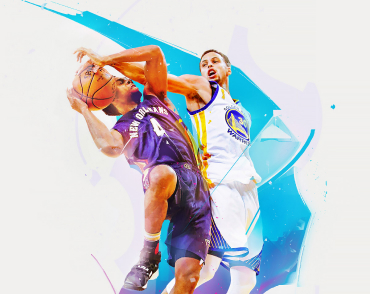
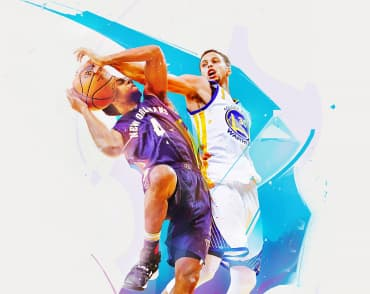
Оптимизация картинок

diff --git a/index.html b/index.html
@@ -28,8 +28,10 @@
             </nav>
 
             <ul class="contacts list">
-                <li class="item"><a href="mailto:info@devstudio.com" class="link">info&commat;devstudio.com</a></li>
-                <li class="item"><a href="tel:+380961111111" class="link">+38 096 111 11 11</a></li>
+                <li class="item">
+                    <a href="mailto:info@devstudio.com" class="link">info&commat;devstudio.com</a></li>
+                <li class="item">
+                    <a href="tel:+380961111111" class="link">+38 096 111 11 11</a></li>
             </ul>
         </div>
     </header>
@@ -180,15 +182,28 @@
     <!-- Footer -->
     <footer id="contacts-section" class="footer">
         <div class="container">
-            <a href="./index.html" class="logo link"><span>Web</span>Studio</a>
+            <div class="logo-address">
+                <a href="./index.html" class="logo link"><span>Web</span>Studio</a>
 
-            <address class="address">
-                <span class="map">г. Киев, пр-т Леси Украинки, 26</span>
+                <address class="address">
+                    <span class="map">г. Киев, пр-т Леси Украинки, 26</span>
+                    <ul class="list">
+                        <li class="item"><a href="mailto:info@example.com" class="link">info&commat;example.com</a></li>
+                        <li class="item"><a href="tel:+380991111111" class="link">+38 099 111 11 11</a></li>
+                    </ul>
+                </address>
+            </div>
+
+            <div class="social">
+                <b class="text">Присоединяйтесь</b>
+
                 <ul class="list">
-                    <li class="item"><a href="mailto:info@example.com" class="link">info&commat;example.com</a></li>
-                    <li class="item"><a href="tel:+380991111111" class="link">+38 099 111 11 11</a></li>
+                    <li></li>
+                    <li></li>
+                    <li></li>
+                    <li></li>
                 </ul>
-            </address>
+            </div>
         </div>
     </footer>
 </body>

diff --git a/css/styles.css b/css/styles.css
@@ -127,6 +127,15 @@ body {
   margin-left: auto;
 }
 
+/* .contacts .item {
+  display: flex;
+  align-items: center;
+} */
+
+.contacts .icon {
+  margin-right: 10px;
+}
+
 .contacts .item:not(:last-child) {
   margin-right: 50px;
 }
@@ -152,6 +161,8 @@ body {
   max-width: 1600px;
   margin-left: auto;
   margin-right: auto;
+  padding-top: 200px;
+  padding-bottom: 200px;
 
   text-align: center;
 
@@ -385,6 +396,15 @@ body {
   background-color: var(--dark-bg-color);
 }
 
+.footer .container {
+  display: flex;
+  align-items: baseline;
+}
+
+.logo-address {
+  margin-right: 70px;
+}
+
 .footer .logo {
   display: block;
   margin-bottom: 20px;
@@ -419,6 +439,13 @@ body {
 .address .link:hover,
 .address .link:focus {
   color: var(--accent-color);
+}
+
+.social .text {
+  text-transform: uppercase;
+  margin-bottom: 20px;
+
+  color: var(--primary-white-color);
 }
 
 /* Portfolio styles */
